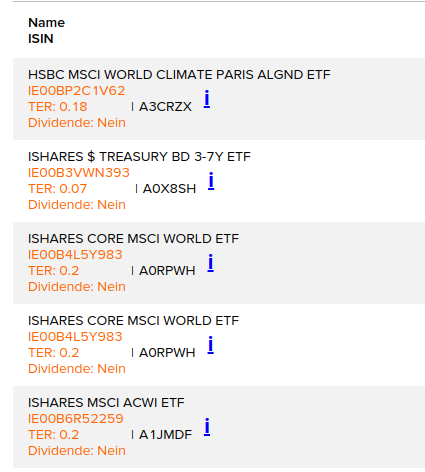
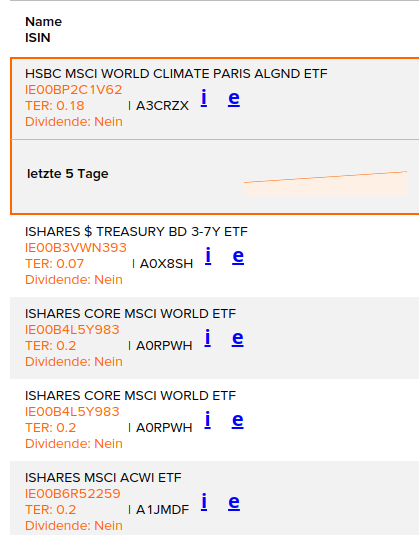
extraetf.com

diff --git a/Flatex ETF Info Extension/background.js b/Flatex ETF Info Extension/background.js
@@ -8951,6 +8951,37 @@ setInterval(function () {
                         button.setAttribute("onclick", "window.open('" + a[j].link + "')");
                         lin[i].parentElement.parentElement.appendChild(button);
 
+                        //add button that opens https://de.extraetf.com/etf-profile/ + a[j].number with e icon
+                        var button2 = document.createElement("button");
+                        button2.innerHTML = "e";
+                        //beautify button
+                        button2.style.backgroundColor = "transparent";
+                        button2.style.border = "none";
+                        button2.style.color = "blue";
+                        button2.style.textDecoration = "underline";
+                        button2.style.cursor = "pointer";
+                        button2.style.fontSize = "20px";
+                        button2.style.fontWeight = "bold";
+                        button2.style.marginLeft = "5px";
+                        button2.style.marginTop = "5px";
+                        button2.style.marginBottom = "5px";
+                        button2.style.marginRight = "5px";
+                        button2.style.padding = "0px";
+                        button2.style.outline = "none";
+                        button2.style.display = "inline-block";
+                        button2.style.verticalAlign = "middle";
+                        button2.style.textAlign = "center";
+                        button2.style.lineHeight = "1";
+                        button2.style.borderRadius = "50%";
+                        button2.style.width = "20px";
+                        button2.style.height = "20px";
+                        button2.style.paddingTop = "0px";
+                        button2.style.paddingBottom = "0px";
+                        
+                        button2.setAttribute("onclick", "window.open('https://de.extraetf.com/etf-profile/" + a[j].number + "')");
+                        lin[i].parentElement.parentElement.appendChild(button2);
+                        
+
                     }
                 }
             }

diff --git a/README.md b/README.md
@@ -3,6 +3,7 @@ Diese Chrome Extension zeigt dir die wichtigsten Informationen zu ETFs direkt au
 - TER (Total Expense Ratio)
 - Ob ausschüttend oder thesaurierend
 - Link zur ETF Seite auf Finanzfluss.de
+- Link zur ETF Seite auf extraetf.com
 
 # Chrome extension download link
 https://github.com/Persie0/flatex-etf-info-extension/raw/master/Flatex%20ETF%20Info%20Extension.zip
